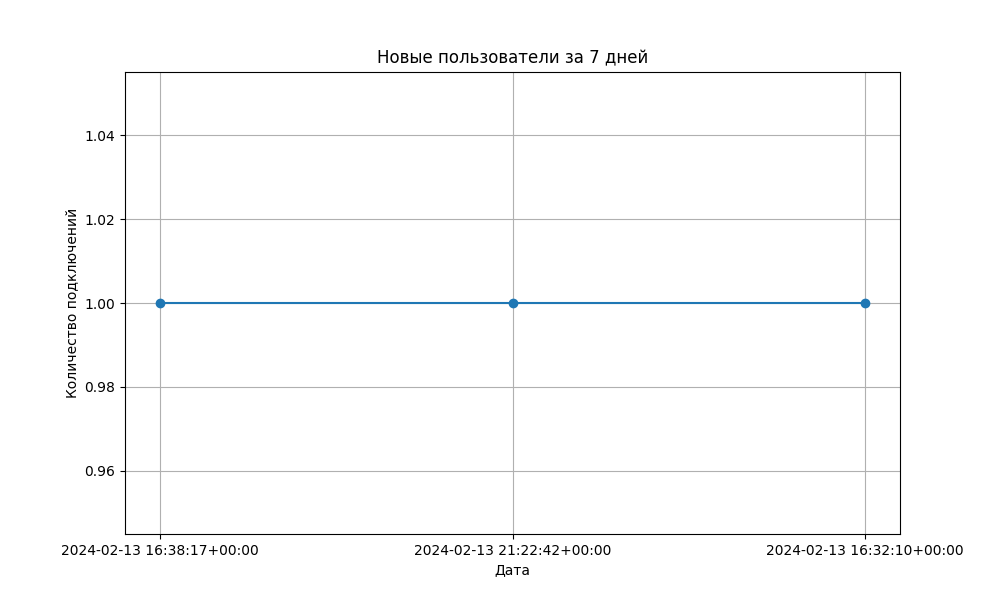
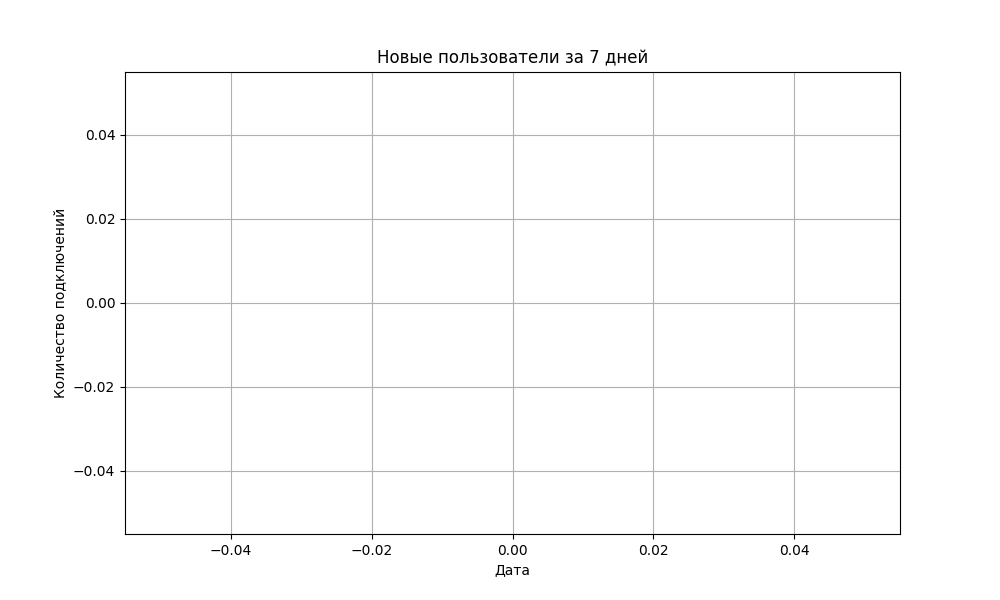
Статистику могут смотреть админы

diff --git a/handlers/analitic.py b/handlers/analitic.py
@@ -1,10 +1,11 @@
 from aiogram import F, Router,types
 import sqlite3
 import pandas as pd
+import numpy as np
 import matplotlib.pyplot as plt
 
 from aiogram.types import Message, FSInputFile, ChatMemberUpdated, ContentType
-from aiogram.filters import CommandStart, Command
+from aiogram.filters import Command
 
 from reportlab.lib.pagesizes import letter
 from reportlab.pdfgen import canvas
@@ -13,7 +14,13 @@ from datetime import datetime, timedelta
 
 router = Router()
 
+#Добовляем админа
+from config_data.config import Config, load_config
 
+config: Config = load_config()
+admin_ids = config.tg_bot.admin_ids
+admin_ids = [admin.lower() for admin in admin_ids]
+admin_ids = np.array(admin_ids)
 
 #создание базы данных
 # Создание или подключение к базе данных SQLite
@@ -68,11 +75,13 @@ def plot_activity_report(df):
 # Обработчик команды для запроса отчета
 @router.message(Command(commands=['join_report']))
 async def send_activity_report(message: Message):
-    df = generate_daily_activity_report()
-    plot_activity_report(df)
-    photo_input = FSInputFile(f'./base/join_report.png')
-    await message.answer("Тут отчет о подключенных пользователях за семь дней:")
-    await message.answer_photo(photo_input)
+    if message.from_user.username.lower() in admin_ids:
+        df = generate_daily_activity_report()
+        plot_activity_report(df)
+        photo_input = FSInputFile(f'./base/join_report.png')
+        await message.answer("Тут отчет о подключенных пользователях за семь дней:")
+        await message.answer_photo(photo_input)
+
 
 # Функция для создания PDF-отчета
 def generate_pdf_report(df):
@@ -98,12 +107,12 @@ def generate_pdf_report(df):
 
     return pdf_filename
 
-# Обработчик команды для отправки PDF-отчета
+# Обработчик команды для отправки PDF-отчета\
 @router.message(Command(commands=['pdf_report']))
 async def send_pdf_report(message: Message):
-    df = generate_daily_activity_report()
-    pdf_filename = generate_pdf_report(df)
-
-    await message.answer("Тут отчет о подключенных пользователях за семь дней:")
-    pdf_file = FSInputFile(f'./base/join_report.pdf')
-    await message.answer_document(pdf_file)
+    if message.from_user.username.lower() in admin_ids:
+        df = generate_daily_activity_report()
+        pdf_filename = generate_pdf_report(df)
+        await message.answer("Тут отчет о подключенных пользователях за семь дней:")
+        pdf_file = FSInputFile(f'./base/join_report.pdf')
+        await message.answer_document(pdf_file)

diff --git a/handlers/other_handlers.py b/handlers/other_handlers.py
@@ -3,7 +3,7 @@ from aiogram.types import InlineKeyboardButton, InlineKeyboardMarkup, CallbackQu
 
 router = Router()
 
-# Хэндлер для сообщений, j,hfnyjq cdzpb 
+# Хэндлер для сообщений о мне
 @router.callback_query(F.data == 'about_me')
 async def process_start_monuments(callback: CallbackQuery):
     main_menu = InlineKeyboardButton(text='Главное меню 🔁', callback_data='main_menu')
@@ -11,17 +11,9 @@ async def process_start_monuments(callback: CallbackQuery):
     inline_keyboard=[[main_menu]]
                         )
     await callback.message.answer(
-        text=f'Вы заметили ошибки? \n'
-            'Пожалуйста напишите мне @mylogloss',
+        text=f'Вся информация, указанная в боте, носит ознакомительный характер,не является рекламой!\n'
+            'Вы заметили ошибки?\n'
+            'Пожалуйста напишите мне info@botorobot.ru',
         reply_markup=keyboard
     )
     await callback.answer()
-
-
-# Хэндлер для сообщений, которые не попали в другие хэндлеры
-# @router.message()
-# async def send_answer(message: Message):
-#     await message.answer(text=f'Извините, но я не понимаю команду {message.text}.'
-#                          'Пожалуйста, попробуйте еще раз или воспользуйтесь командой /help ' 
-#                          'для получения дополнительной информации о доступных командах')
-    

diff --git a/handlers/get_weather.py b/handlers/get_weather.py
@@ -1,6 +1,6 @@
 import requests
 import datetime
-import math 
+import math
 from aiogram import F, Router
 from aiogram.types import  CallbackQuery, InlineKeyboardButton, InlineKeyboardMarkup
 from config_data.config import Config, load_config
@@ -11,10 +11,10 @@ WEATHER_TOKEN = config.tg_bot.weather_token
 
 router = Router()
 
-    
+
 @router.callback_query(F.data == 'weather_today')
 async def procees_get_weather(callback: CallbackQuery):
-    response = requests.get(f'http://api.openweathermap.org/data/2.5/weather?lat=62.7641&lon=40.3375&exclude=minute&&lang=ru&units=metric&appid={WEATHER_TOKEN}')  
+    response = requests.get(f'http://api.openweathermap.org/data/2.5/weather?lat=62.7641&lon=40.3375&exclude=minute&&lang=ru&units=metric&appid={WEATHER_TOKEN}')
     data = response.json()
     cur_temp = data["main"]["temp"]
     feels_temp = data['main']['feels_like']
@@ -28,6 +28,6 @@ async def procees_get_weather(callback: CallbackQuery):
     await callback.message.answer(text = f"СЕГОДНЯ:\n\n🌬 {weather}\n"
         f"🌡 температура: {round(cur_temp)}°C, ощущается как {round(feels_temp)}°C \n"
         f'💧 влажность: {humidity}%\n♨ давление: {math.ceil(pressure/1.333)} мм.рт.ст\n༄   ветер: {round(wind)} м/с \n\n'
-        f'Хорошего дня 😎!', 
+        f'Хорошего дня 😎!',
         reply_markup=keyboard)
-    await callback.answer()    
+    await callback.answer()

diff --git a/bot.py b/bot.py
@@ -3,10 +3,10 @@ import logging
 
 from aiogram import Bot, Dispatcher
 from config_data.config import Config, load_config
-from handlers import (main_handlers, 
-                      other_handlers, 
-                      get_weather, 
-                      interesting_places, 
+from handlers import (main_handlers,
+                      other_handlers,
+                      get_weather,
+                      interesting_places,
                       local_cuisene,
                       souvenirs,
                       transport,
@@ -15,7 +15,7 @@ from handlers import (main_handlers,
                       sport,
                       emergency,
                       analitic
-                      ) 
+                      )
 
 # from keyboards.main_menu import set_main_menu
 
@@ -64,9 +64,8 @@ async def main():
     # Пропускаем накопившиеся апдейты и запускаем polling
     await bot.delete_webhook(drop_pending_updates=True)
     await dp.start_polling(bot)
-    
+
 
 
 if __name__ == '__main__':
     asyncio.run(main())
- 

diff --git a/config_data/config.py b/config_data/config.py
@@ -4,7 +4,7 @@ from environs import Env
 @dataclass
 class Tgbot:
     token: str
-    admin_ids: list[int]
+    admin_ids: None
     weather_token: str
 
 @dataclass
@@ -19,7 +19,7 @@ def load_config(path: str | None = None) -> Config:
     return Config(
         tg_bot=Tgbot(
             token=env('BOT_TOKEN'),
-            admin_ids=list(map(int, env.list('ADMIN_IDS'))),
+            admin_ids = env('ADMIN_IDS').split(', '),
             weather_token=env('WEATHER_TOKEN')
         )
     )
